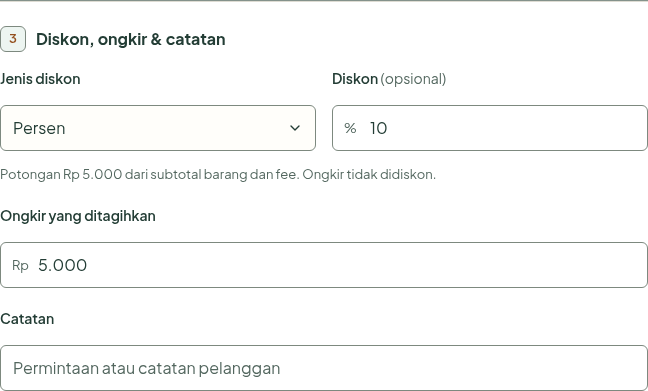
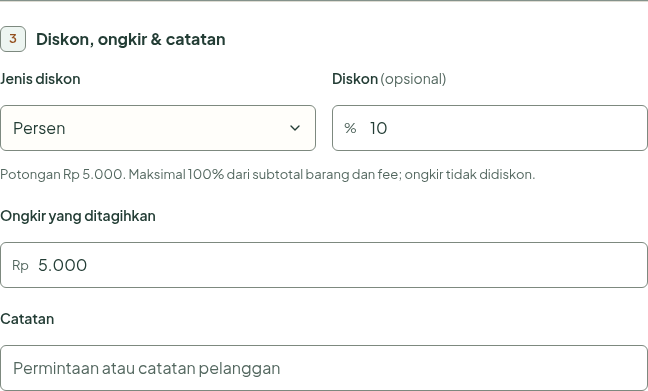
Cap rupiah discounts at full pre-discount invoice amount

Changed region(s): [[0.1852, 0.4297, 0.8333, 0.4604]]

diff --git a/tests/database.test.ts b/tests/database.test.ts
@@ -10,6 +10,8 @@ before(async () => {
   await db.exec(await readFile(new URL("../supabase/migrations/202610080001_tippo_workspace.sql", import.meta.url), "utf8"));
   const discountSql=await readFile(new URL("../supabase/migrations/202610110004_order_discount.sql", import.meta.url),"utf8");
   await db.exec(discountSql); await db.exec(discountSql);
+  const limitsSql=await readFile(new URL("../supabase/migrations/202610110005_discount_limits.sql", import.meta.url),"utf8");
+  await db.exec(limitsSql); await db.exec(limitsSql);
 });
 after(async () => { await db.close(); });
 async function login(user: string) { await db.exec(`reset role; set role authenticated; select set_config('request.jwt.claim.sub','${user}',false);`); }
@@ -77,4 +79,9 @@ test("discount RPC saves net payment, rejects invalid discounts and preserves qu
   excessive.orders[0].discount={type:"amount",value:41001}; await assert.rejects(save(excessive,own.version),/TIPPO_INVALID/);
   excessive.orders[0].discount={type:"amount",value:1000}; excessive.orders[0].paid=40000;
   own=await save(excessive,own.version); assert.equal(own.usage.length,count); assert.equal(own.data.orders[0].paid,40000);
+  const fullDiscount=structuredClone(own.data); fullDiscount.orders[0].shippingCharge=5000;
+  fullDiscount.orders[0].discount={type:"amount",value:46000}; fullDiscount.orders[0].paid=0;
+  own=await save(fullDiscount,own.version); assert.equal(own.data.orders[0].discount?.value,46000);
+  fullDiscount.orders[0].discount.value=46001;
+  await assert.rejects(save(fullDiscount,own.version),/TIPPO_INVALID/);
 });

diff --git a/src/components/order-discount-fields.tsx b/src/components/order-discount-fields.tsx
@@ -11,7 +11,7 @@ export function OrderDiscountFields({ id, type, value, amount, onType, onValue, 
   return <div className="order-discount-fields">
     <div className="field"><label className="field-label" htmlFor={`${id}-type`}>Jenis diskon</label><Select id={`${id}-type`} aria-label="Jenis diskon" className="input" value={type} onValueChange={value => onType(value as "amount" | "percent")}><SelectOption value="amount">Rupiah</SelectOption><SelectOption value="percent">Persen</SelectOption></Select></div>
     <div className="field"><label className="field-label" htmlFor={`${id}-value`}>Diskon <span className="muted">(opsional)</span></label><div className="discount-value-input"><span aria-hidden="true">{type === "amount" ? "Rp" : "%"}</span><NumberInput id={`${id}-value`} name="discountValue" aria-label="Diskon" className="input" min="0" max={type === "percent" ? 100 : undefined} step="1" value={value} placeholder="0" onValueChange={onValue} aria-invalid={Boolean(error)} aria-describedby={`${id}-hint${error ? ` ${id}-error` : ""}`} /></div></div>
-    <p className="field-hint" id={`${id}-hint`}>Potongan {formatCurrency(amount)} dari subtotal barang dan fee. Ongkir tidak didiskon.</p>
+    <p className="field-hint" id={`${id}-hint`}>Potongan {formatCurrency(amount)}. {type === "percent" ? "Maksimal 100% dari subtotal barang dan fee; ongkir tidak didiskon." : "Maksimal total tagihan sebelum diskon, termasuk ongkir."}</p>
     {error && <p className="error-message" role="alert" id={`${id}-error`}>{error}</p>}
   </div>;
 }

diff --git a/tests/discount.test.ts b/tests/discount.test.ts
@@ -24,9 +24,12 @@ test("percent discounts round half up, allow free items and remain exact at safe
   assert.equal(orderDiscount({...small,items:[{...small.items[0],unitPrice:Number.MAX_SAFE_INTEGER}],discount:{type:"percent",value:100}}),Number.MAX_SAFE_INTEGER);
 });
 test("discount validation rejects invalid types, excessive discounts and payment above net bill", () => {
-  for (const discount of [{type:"percent",value:101},{type:"amount",value:60001},{type:"amount",value:-1},{type:"percent",value:1.5},{type:"other",value:1},null]) {
+  for (const discount of [{type:"percent",value:101},{type:"amount",value:65001},{type:"amount",value:-1},{type:"percent",value:1.5},{type:"other",value:1},null]) {
     assert.equal(isAppData(workspace({...order,discount} as Order)),false);
   }
   assert.equal(isAppData(workspace({...order,discount:{type:"percent",value:100},paid:5001})),false);
   assert.equal(isAppData(workspace({...order,discount:{type:"percent",value:100},paid:5000})),true);
+  const free={...order,discount:{type:"amount" as const,value:65000},paid:0};
+  assert.equal(isAppData(workspace(free)),true); assert.equal(orderRevenue(free),0);
+  assert.equal(isAppData(workspace({...free,paid:1})),false);
 });

diff --git a/tests/website.spec.ts b/tests/website.spec.ts
@@ -675,6 +675,14 @@ for (const [business,width] of [["Jastip",1440],["Open PO",1440],["Open PO",390]
   await expect(form.getByLabel("Diskon",{exact:true})).toHaveValue("10");
   await chooseOption(form.getByLabel("Jenis diskon",{exact:true}),"amount");
   await expect(form.getByLabel("Diskon",{exact:true})).toHaveValue("");
+  await form.getByLabel("Diskon",{exact:true}).fill("55001");
+  await form.getByRole("button",{name:"Simpan pesanan",exact:true}).click();
+  await expect(form.getByText("Diskon tidak boleh melebihi total tagihan sebelum diskon.",{exact:true})).toBeVisible();
+  expect(requests).toHaveLength(1);
+  await form.getByLabel("Diskon",{exact:true}).fill("55000");
+  await expect(form.locator(".payment-total")).toContainText("Rp 0");
+  await expect(form.getByRole("button",{name:"Lunas",exact:true})).toBeDisabled();
+  await expect(form.getByRole("button",{name:"Bayar sebagian",exact:true})).toBeDisabled();
   await form.getByLabel("Diskon",{exact:true}).fill("10000");
   await form.getByRole("button",{name:"Simpan pesanan",exact:true}).click();
   await expect(form.getByText("Pembayaran tidak boleh melebihi total tagihan setelah diskon.",{exact:true})).toBeVisible();

diff --git a/src/components/order-form.tsx b/src/components/order-form.tsx
@@ -215,7 +215,7 @@ export function OrderForm({ data, order, defaultBatchId, onSave, onClose, saveEr
     const discountValue = Number(fields.discountValue);
     if (!Number.isSafeInteger(discountValue) || discountValue < 0) nextErrors.discountValue = "Masukkan diskon berupa angka bulat minimal 0.";
     else if (fields.discountType === "percent" && discountValue > 100) nextErrors.discountValue = "Diskon maksimal 100%.";
-    else if (fields.discountType === "amount" && discountValue > orderSubtotal(draft)) nextErrors.discountValue = "Diskon tidak boleh melebihi subtotal barang dan fee.";
+    else if (fields.discountType === "amount" && discountValue > orderSubtotal(draft) + draft.shippingCharge) nextErrors.discountValue = "Diskon tidak boleh melebihi total tagihan sebelum diskon.";
     if (!nextErrors.paid && Number(fields.paid) > revenue) nextErrors.paid = "Pembayaran tidak boleh melebihi total tagihan setelah diskon.";
     if (order?.status === "cancelled" && Number(fields.paid) > 0) nextErrors.paid = "Untuk pesanan yang dibatalkan, pembayaran harus 0.";
     const parsedDate = new Date(`${fields.date}T00:00:00Z`);

diff --git a/src/components/po-order-form.tsx b/src/components/po-order-form.tsx
@@ -203,7 +203,7 @@ export function PoOrderForm({ data, order, onSave, onClose, saveError, saving }:
     const discountValue = Number(fields.discountValue);
     if (!Number.isSafeInteger(discountValue) || discountValue < 0) nextErrors.discountValue = "Masukkan diskon berupa angka bulat minimal 0.";
     else if (fields.discountType === "percent" && discountValue > 100) nextErrors.discountValue = "Diskon maksimal 100%.";
-    else if (fields.discountType === "amount" && discountValue > orderSubtotal(draft)) nextErrors.discountValue = "Diskon tidak boleh melebihi subtotal barang dan fee.";
+    else if (fields.discountType === "amount" && discountValue > orderSubtotal(draft) + draft.shippingCharge) nextErrors.discountValue = "Diskon tidak boleh melebihi total tagihan sebelum diskon.";
     if (!nextErrors.paid && Number(fields.paid) > revenue) nextErrors.paid = "Pembayaran tidak boleh melebihi total tagihan setelah diskon.";
     if (order?.status === "cancelled" && Number(fields.paid) > 0) nextErrors.paid = "Untuk pesanan yang dibatalkan, pembayaran harus 0.";
     const parsedDate = new Date(`${fields.date}T00:00:00Z`);

diff --git a/src/lib/validation.ts b/src/lib/validation.ts
@@ -139,7 +139,7 @@ export function isAppData(value: unknown): value is AppData {
       const discount = order.discount;
       const base = revenue - (order.shippingCharge as number);
       if (!record(discount) || !["amount", "percent"].includes(discount.type as string) || !money(discount.value)) return false;
-      if (discount.type === "percent" && discount.value > 100 || discount.type === "amount" && discount.value > base) return false;
+      if (discount.type === "percent" && discount.value > 100 || discount.type === "amount" && discount.value > revenue) return false;
       revenue -= discount.type === "percent" ? Number((BigInt(base) * BigInt(discount.value) + BigInt(50)) / BigInt(100)) : discount.value;
     }
     if ((order.paid as number) > revenue) return false;

diff --git a/src/lib/finance.ts b/src/lib/finance.ts
@@ -29,7 +29,7 @@ export function orderSubtotal(order: Order): number {
 export function orderDiscount(order: Order): number {
   const base = orderSubtotal(order), discount = order.discount;
   if (!discount || !Number.isSafeInteger(base) || base < 0 || !Number.isSafeInteger(discount.value) || discount.value < 0) return 0;
-  if (discount.type === "amount") return Math.min(base, discount.value);
+  if (discount.type === "amount") return Math.min(base + order.shippingCharge, discount.value);
   if (discount.type !== "percent" || discount.value > 100) return 0;
   return Number((BigInt(base) * BigInt(discount.value) + BigInt(50)) / BigInt(100));
 }

diff --git a/src/lib/types.ts b/src/lib/types.ts
@@ -61,7 +61,7 @@ export interface Order {
   serviceFee: number;
   /** Total delivery charge billed to this customer. */
   shippingCharge: number;
-  /** Discount on items plus service fee; shipping is excluded. */
+  /** Percent discounts exclude shipping; rupiah discounts may cover the entire gross bill. */
   discount?: { type: "amount" | "percent"; value: number };
   /** Net payment retained after recorded refunds. */
   paid: number;

diff --git a/docs/ORDER-DISCOUNTS.md b/docs/ORDER-DISCOUNTS.md
@@ -1,14 +1,18 @@
 # Diskon pesanan
 
-Form Jastip dan Open PO menyediakan diskon opsional berupa rupiah atau persen pada bagian Diskon, ongkir & catatan. Nilai persen berupa bilangan bulat 0–100. Diskon berlaku untuk jumlah harga jual barang ditambah fee pesanan, tidak termasuk ongkir. Potongan persen dibulatkan ke rupiah terdekat (setengah dibulatkan naik) dengan perhitungan bilangan bulat yang aman. Mengubah jenis diskon mengosongkan nilainya untuk menghindari salah tafsir rupiah menjadi persen.
+Form Jastip dan Open PO menyediakan diskon opsional berupa rupiah atau persen pada bagian Diskon, ongkir & catatan. Nilai persen berupa bilangan bulat 0–100, berlaku pada barang dan fee tanpa ongkir. Diskon rupiah maksimal total tagihan sebelum diskon, termasuk ongkir, sehingga bisa membuat tagihan Rp0. Potongan persen dibulatkan ke rupiah terdekat (setengah dibulatkan naik) dengan perhitungan bilangan bulat yang aman. Mengubah jenis diskon mengosongkan nilainya untuk menghindari salah tafsir rupiah menjadi persen.
 
-Pesanan menyimpan `discount: { type: "amount" | "percent", value: number }`. Pesanan lama tanpa properti ini tetap memiliki total yang sama. Nilai rupiah tidak boleh melebihi subtotal, dan pembayaran tidak boleh melebihi tagihan setelah diskon. Total, sisa tagihan, ringkasan, grafik, margin, invoice WhatsApp dan detail ponsel memakai perhitungan yang sama. HPP tidak dipotong. Saat mengedit pesanan, riwayat refund dipertahankan. Impor Excel tetap memakai template saat ini tanpa kolom diskon; diskon dapat ditambahkan setelah impor.
+Pesanan menyimpan `discount: { type: "amount" | "percent", value: number }`. Pesanan lama tanpa properti ini tetap memiliki total yang sama. Pembayaran tidak boleh melebihi tagihan setelah diskon. Total, sisa tagihan, ringkasan, grafik, margin, invoice WhatsApp dan detail ponsel memakai perhitungan yang sama. HPP tidak dipotong. Saat mengedit pesanan, riwayat refund dipertahankan. Impor Excel tetap memakai template saat ini tanpa kolom diskon; diskon dapat ditambahkan setelah impor.
 
 ## Aktivasi Supabase
 
 Jalankan `supabase/migrations/202610110004_order_discount.sql` di SQL Editor, setelah migrasi workspace awal. Migrasi tidak mengubah data atau kuota: validator sebelumnya dipertahankan dan validator baru memeriksa diskon serta pembayaran bersih. Migrasi dapat dijalankan ulang. Lingkungan ini hanya memiliki publishable key; SQL belum dijalankan di produksi.
 
+Kemudian jalankan `supabase/migrations/202610110005_discount_limits.sql` untuk batas rupiah yang mencakup ongkir. Migrasi sebelumnya membatasi rupiah pada subtotal barang dan fee. Urutan ini berlaku untuk instalasi baru maupun proyek yang sudah menjalankan migrasi 004.
+
 ## Validasi
+
+Revisi batas rupiah: sembilan tes diskon/database serta tiga skenario browser di bawah lulus. Pemeriksaan tambahan mencakup diskon tepat sebesar total beserta ongkir, kelebihan satu rupiah, dan penonaktifan tombol bantuan pembayaran pada tagihan Rp0. Lint dan build lulus. SQL 005 dijalankan dua kali di database tes; belum diterapkan ke produksi.
 
 Lint dan production build berhasil. Seluruh 88 tes unit/database berhasil, termasuk kedua jenis diskon, pembulatan dan angka besar, ongkir/HPP, ringkasan/margin/invoice, pembayaran berlebih dan invalid discount. Tes PGlite menjalankan migrasi dua kali dan memeriksa penyimpanan, penolakan data tidak valid, dan kuota saat edit.
 
